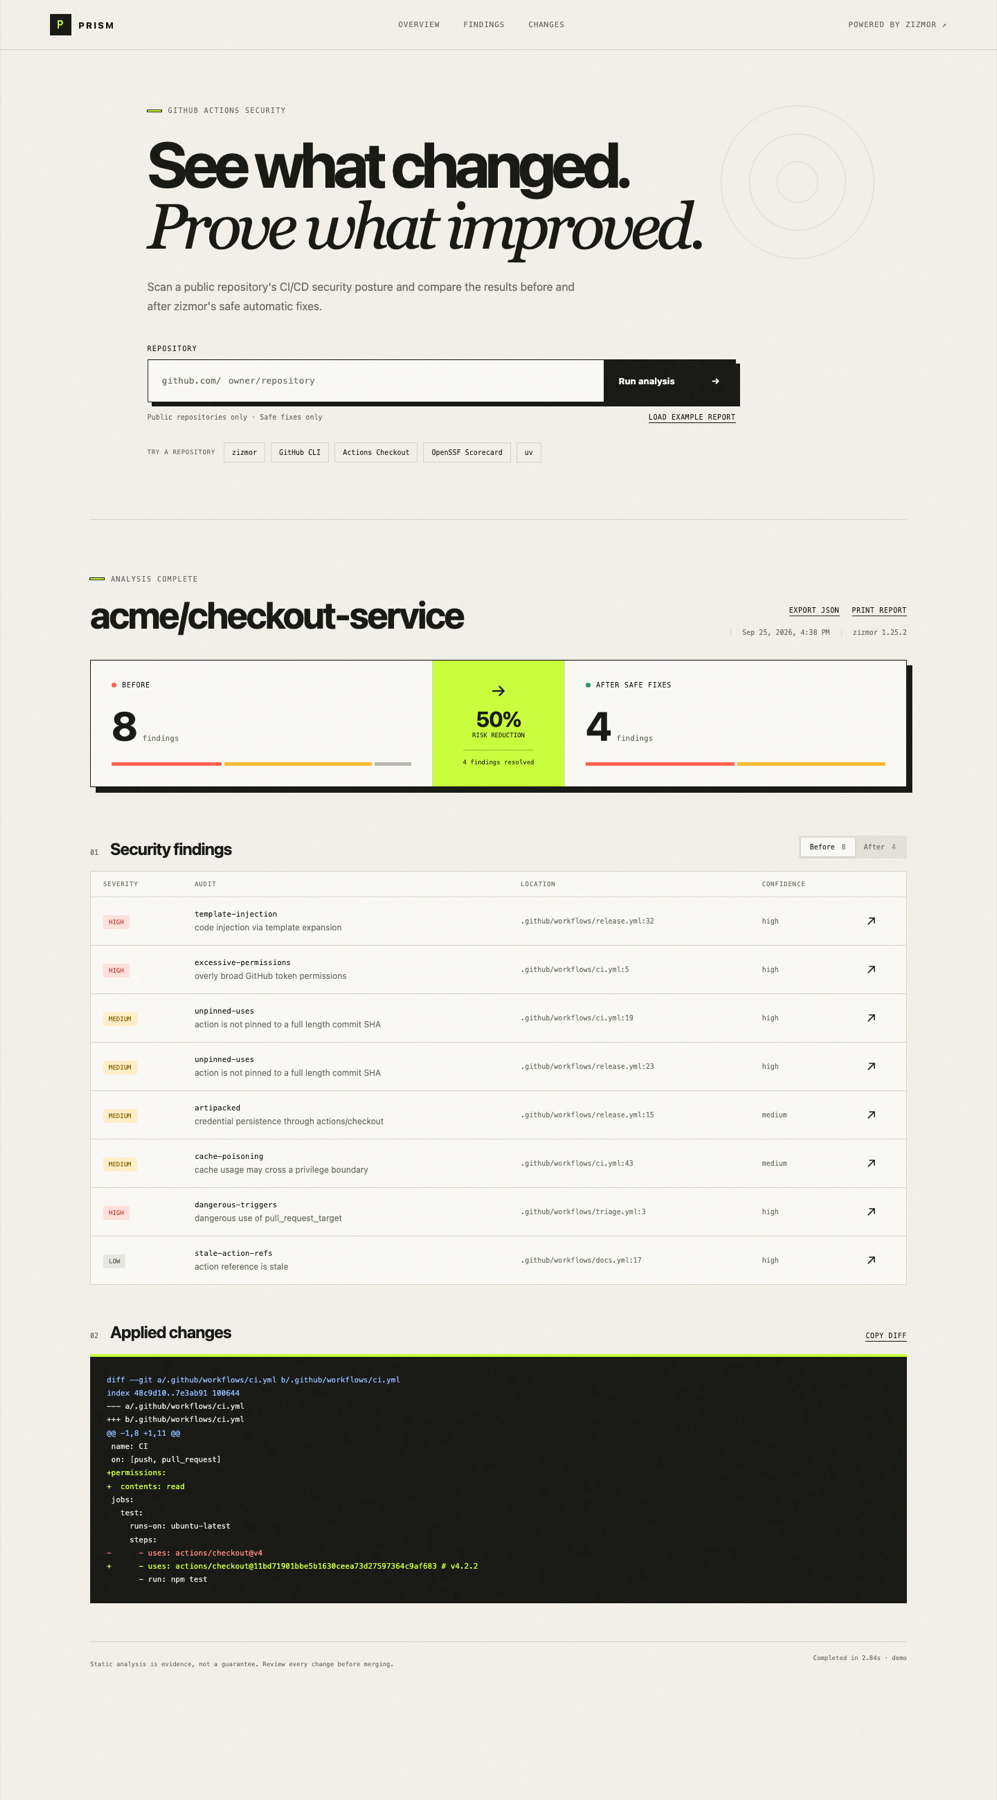
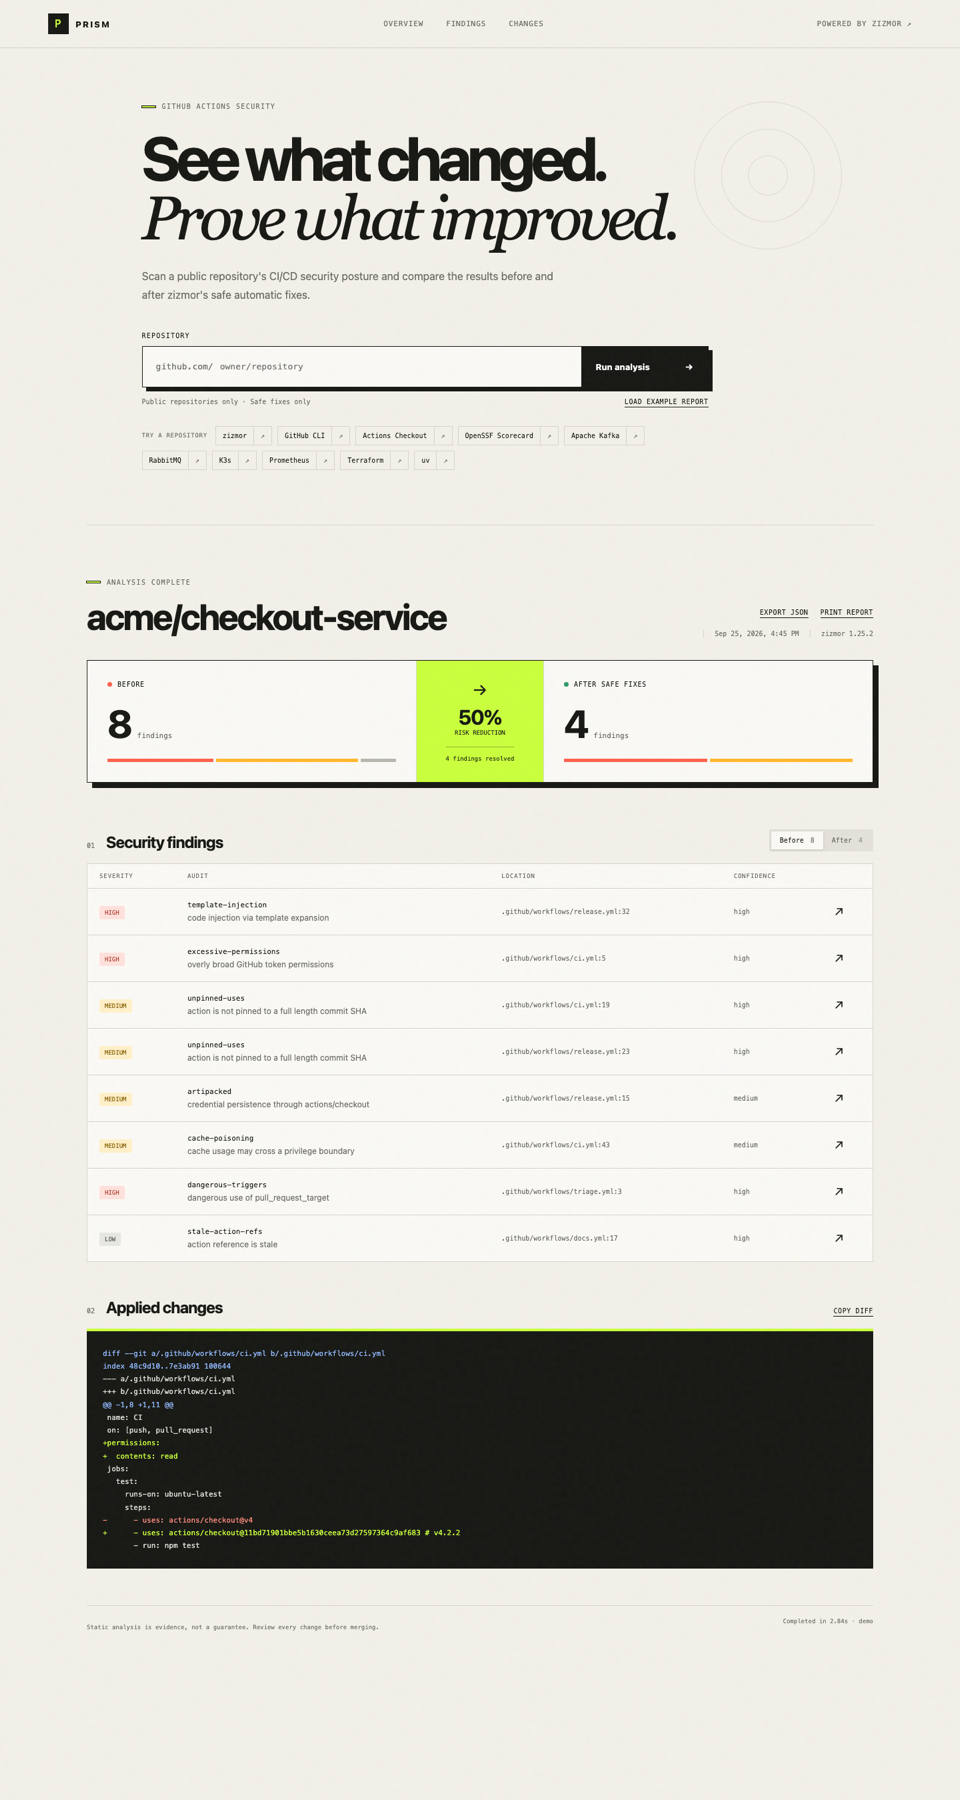
feat: expand repository presets with GitHub links

diff --git a/public/index.html b/public/index.html
@@ -42,11 +42,16 @@
           </div>
           <div class="presets" aria-label="Example open-source repositories">
             <span>Try a repository</span>
-            <button type="button" data-repository="zizmorcore/zizmor">zizmor</button>
-            <button type="button" data-repository="cli/cli">GitHub CLI</button>
-            <button type="button" data-repository="actions/checkout">Actions Checkout</button>
-            <button type="button" data-repository="ossf/scorecard">OpenSSF Scorecard</button>
-            <button type="button" data-repository="astral-sh/uv">uv</button>
+            <div><button type="button" data-repository="zizmorcore/zizmor">zizmor</button><a href="https://github.com/zizmorcore/zizmor" target="_blank" rel="noreferrer" aria-label="Open zizmor on GitHub">↗</a></div>
+            <div><button type="button" data-repository="cli/cli">GitHub CLI</button><a href="https://github.com/cli/cli" target="_blank" rel="noreferrer" aria-label="Open GitHub CLI on GitHub">↗</a></div>
+            <div><button type="button" data-repository="actions/checkout">Actions Checkout</button><a href="https://github.com/actions/checkout" target="_blank" rel="noreferrer" aria-label="Open Actions Checkout on GitHub">↗</a></div>
+            <div><button type="button" data-repository="ossf/scorecard">OpenSSF Scorecard</button><a href="https://github.com/ossf/scorecard" target="_blank" rel="noreferrer" aria-label="Open OpenSSF Scorecard on GitHub">↗</a></div>
+            <div><button type="button" data-repository="apache/kafka">Apache Kafka</button><a href="https://github.com/apache/kafka" target="_blank" rel="noreferrer" aria-label="Open Apache Kafka on GitHub">↗</a></div>
+            <div><button type="button" data-repository="rabbitmq/rabbitmq-server">RabbitMQ</button><a href="https://github.com/rabbitmq/rabbitmq-server" target="_blank" rel="noreferrer" aria-label="Open RabbitMQ on GitHub">↗</a></div>
+            <div><button type="button" data-repository="k3s-io/k3s">K3s</button><a href="https://github.com/k3s-io/k3s" target="_blank" rel="noreferrer" aria-label="Open K3s on GitHub">↗</a></div>
+            <div><button type="button" data-repository="prometheus/prometheus">Prometheus</button><a href="https://github.com/prometheus/prometheus" target="_blank" rel="noreferrer" aria-label="Open Prometheus on GitHub">↗</a></div>
+            <div><button type="button" data-repository="hashicorp/terraform">Terraform</button><a href="https://github.com/hashicorp/terraform" target="_blank" rel="noreferrer" aria-label="Open Terraform on GitHub">↗</a></div>
+            <div><button type="button" data-repository="astral-sh/uv">uv</button><a href="https://github.com/astral-sh/uv" target="_blank" rel="noreferrer" aria-label="Open uv on GitHub">↗</a></div>
           </div>
         </form>
         <div id="notice" class="notice" role="status" aria-live="polite" hidden></div>

diff --git a/public/styles.css b/public/styles.css
@@ -46,8 +46,12 @@ h1 em { font-family: Georgia, serif; font-weight: 400; }
 .text-button { border: 0; border-bottom: 1px solid currentColor; padding: 0 0 2px; background: none; color: var(--ink); cursor: pointer; font: 500 10px var(--mono); text-transform: uppercase; letter-spacing: .06em; }
 .presets { display: flex; align-items: center; flex-wrap: wrap; gap: 8px; margin-top: 28px; }
 .presets > span { margin-right: 4px; color: var(--muted); font: 500 9px var(--mono); text-transform: uppercase; letter-spacing: .08em; }
-.presets button { border: 1px solid var(--line); background: transparent; color: var(--ink); padding: 8px 11px; cursor: pointer; font: 10px var(--mono); transition: background .15s, border-color .15s, transform .15s; }
-.presets button:hover, .presets button:focus-visible { border-color: var(--ink); background: var(--acid); transform: translateY(-1px); outline: none; }
+.presets > div { display: flex; border: 1px solid var(--line); transition: border-color .15s, transform .15s; }
+.presets > div:hover, .presets > div:focus-within { border-color: var(--ink); transform: translateY(-1px); }
+.presets button, .presets a { border: 0; background: transparent; color: var(--ink); padding: 8px 10px; font: 10px var(--mono); text-decoration: none; }
+.presets button { cursor: pointer; }
+.presets a { border-left: 1px solid var(--line); color: var(--muted); }
+.presets button:hover, .presets button:focus-visible, .presets a:hover, .presets a:focus-visible { background: var(--acid); color: var(--ink); outline: none; }
 .notice { max-width: 850px; margin-top: 28px; padding: 14px 18px; border-left: 3px solid var(--red); background: #ffe7e1; font-size: 13px; }
 
 .report { padding: 80px 0 110px; border-top: 1px solid var(--line); }
